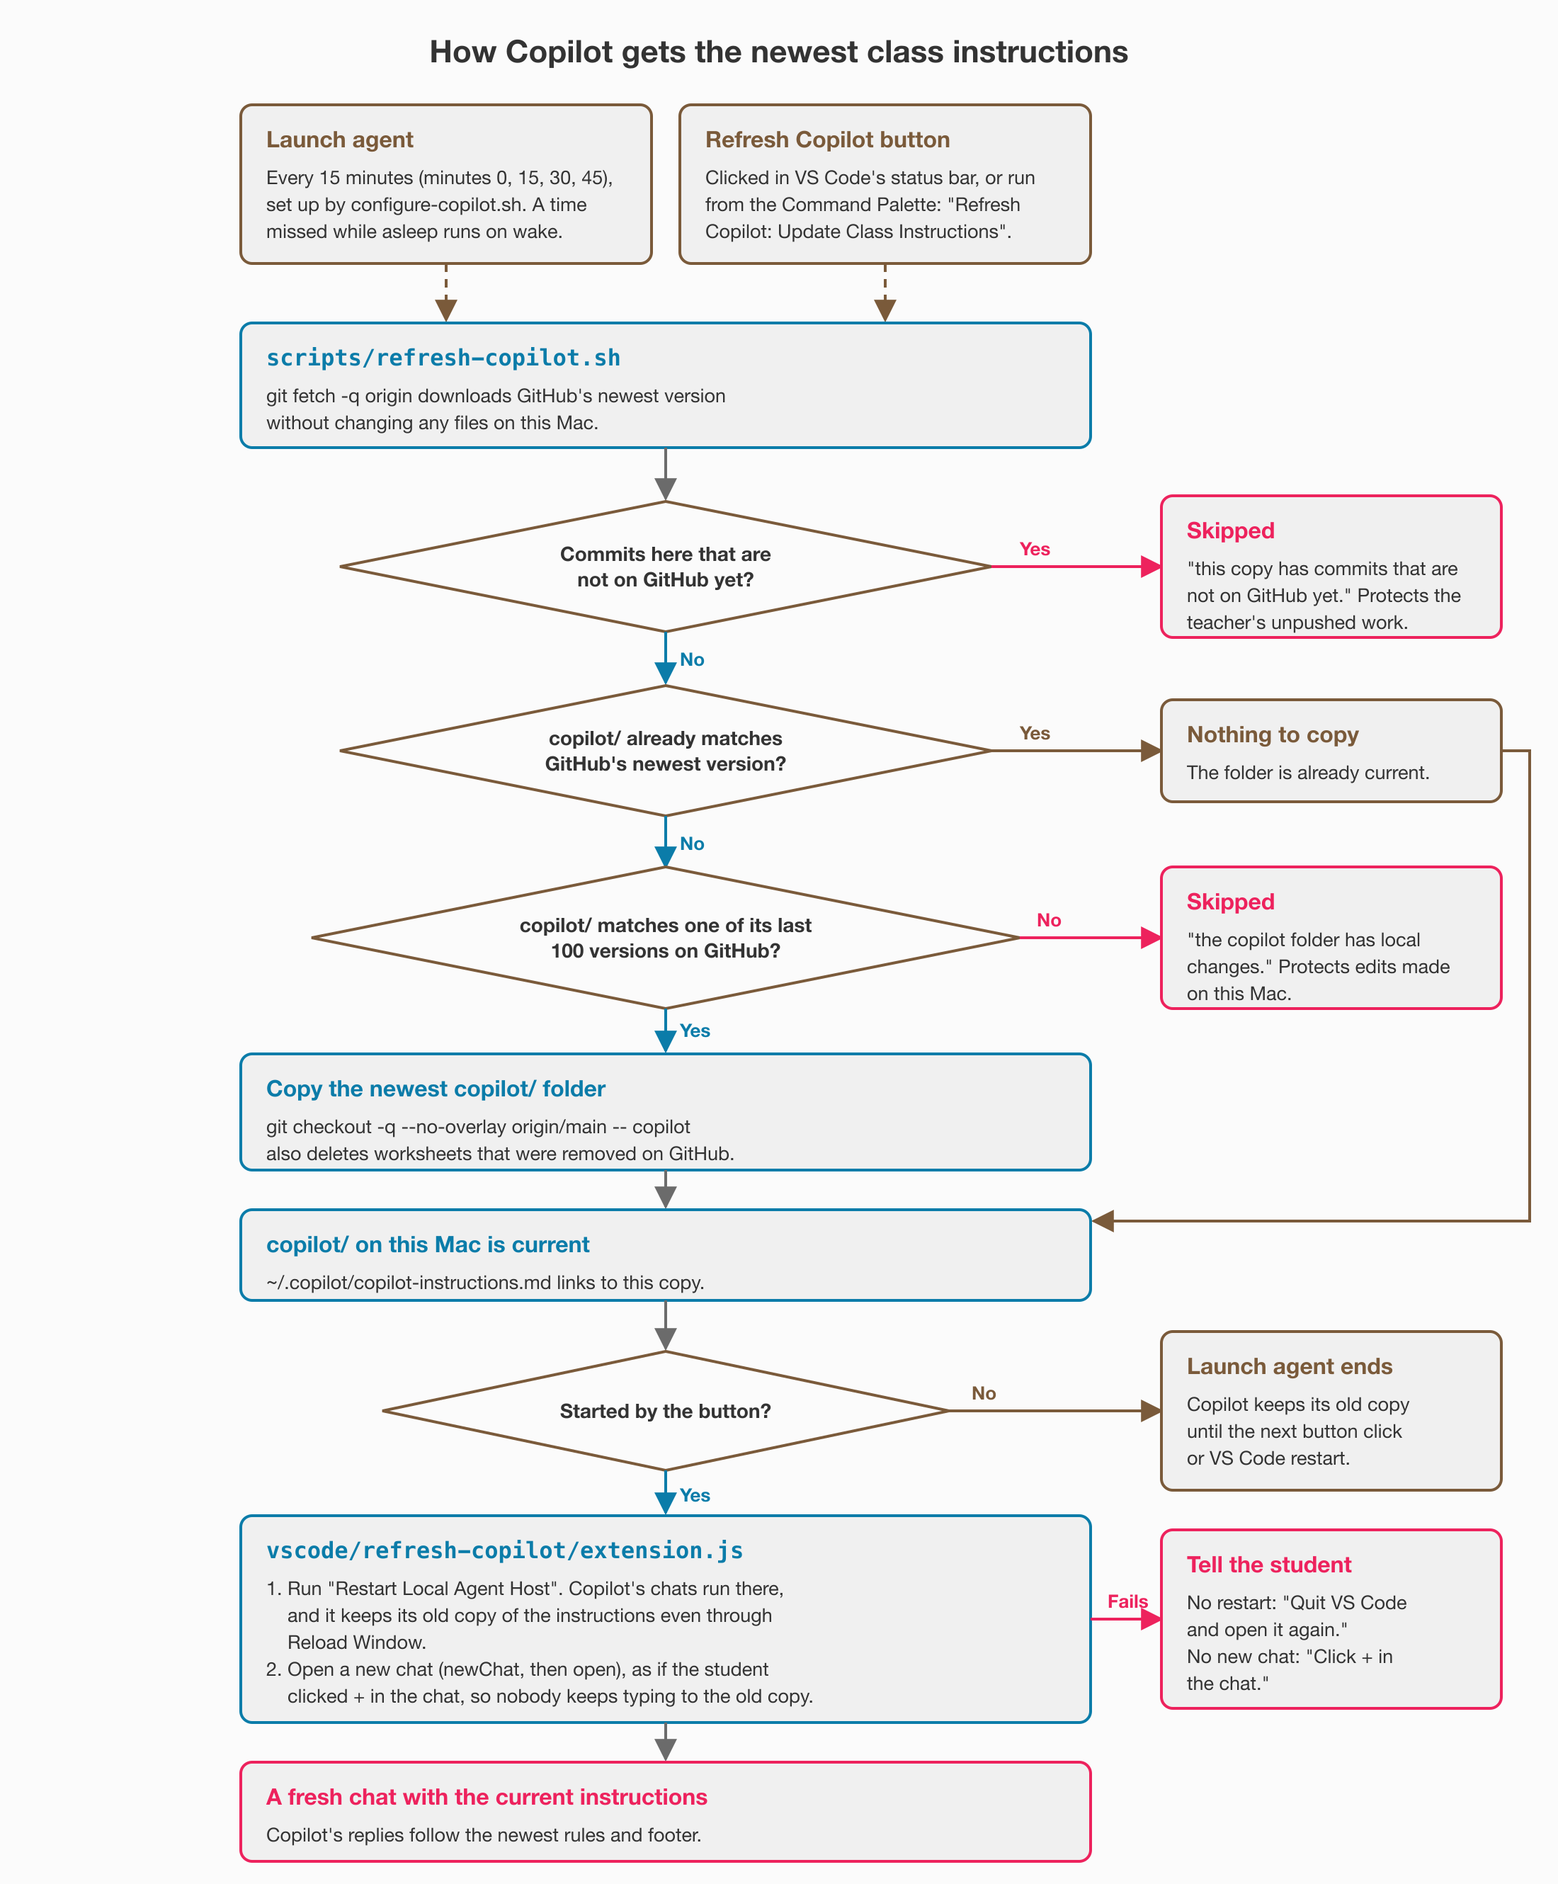
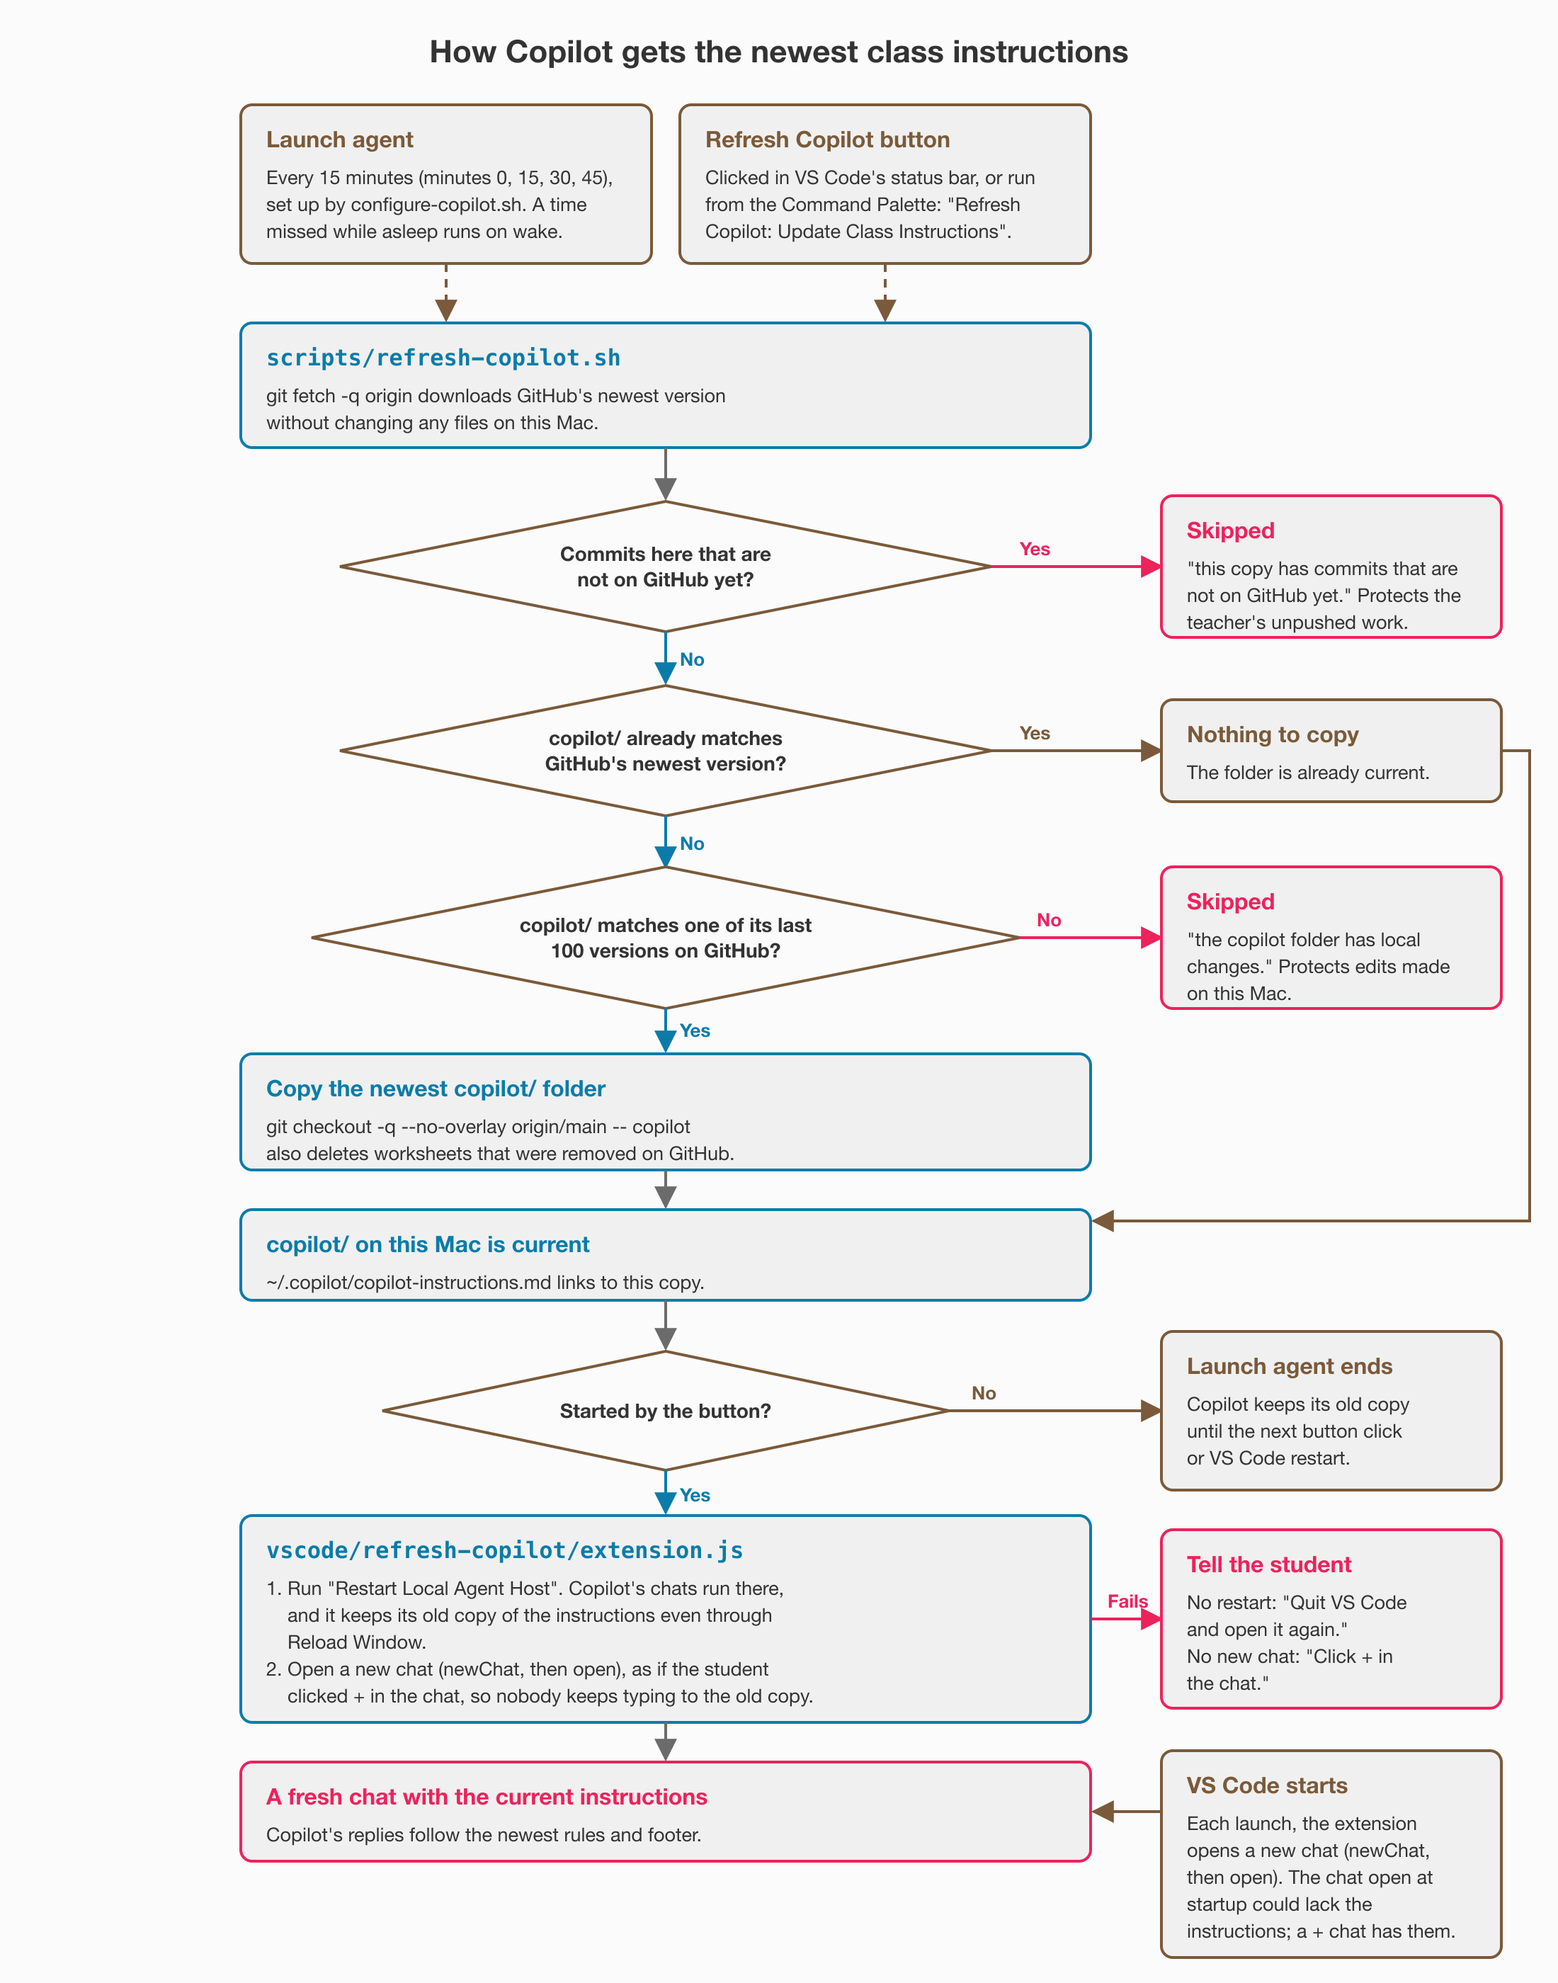
updated copilot update docs diagram

diff --git a/CLAUDE.md b/CLAUDE.md
@@ -25,7 +25,7 @@ can replace its link with a regular file; check with `ls -la` (look for `->`).
 | `vscode/p5-live-sketch/` | installed as `local.p5-live-sketch` (packaged `.vsix`, not linked) | Local extension "p5.js Live Sketch" (`extension.js`, `package.json`): activates on `workspaceContains:sketch.js`, first runs `workbench.action.browser.closeAll` (only at startup) so integrated browser tabs VS Code restored before Live Server is up do not show an error page, then opens `sketch.js` in column one, runs `extension.liveServer.goOnline`, polls `http://127.0.0.1:PORT/sketch.js` (rereading `liveServer.settings.port`) until it matches the file on disk, then runs `workbench.action.browser.open` with `url`, `reuseUrlFilter` and `openToSide`. Command `p5LiveSketch.open`; setting `p5LiveSketch.openOnStart` |
 | `vscode/p5js-editor-light/` | installed as `local.p5js-editor-light` (packaged `.vsix`, not linked) | Theme extension: `package.json` (publisher `local`, `uiTheme` `vs`, version 0.0.2), `themes/p5js-editor-light-color-theme.json`, and `extension.js`, which runs on `onStartupFinished` and, once per Mac (flag `p5jsEditorLight.themeApplied` in `globalState`), removes and rewrites `workbench.colorTheme` = `p5.js Editor Light` at the Global target. Reason: on a test Mac on 2026-10-19 the setting was correct but VS Code kept its default theme (it first started before the theme was installed) until the theme was picked by hand, which moved the same line in `settings.json`. |
 
-The repo has five folders: `scripts/` (the four setup scripts plus `configure-copilot.sh`, `refresh-copilot.sh` and `update-worksheets.sh`), `zsh/` (`.zshrc` and the Powerlevel10k config), `vscode/` (`settings.json`, `extensions.txt`, and the theme extension), `copilot/` (Copilot's class instructions, `worksheets.txt`, and `worksheets/`), and `docs/` (four flowchart images: `setup-flow.png`, the order the setup scripts run in; `file-map.png`, where each repo file goes on a student's Mac and how `copilot/` changes reach students; and `worksheet-sync.png`, the hourly worksheet workflow from a Google Doc edit or a `worksheets.txt` change through `update-worksheets.sh`, the bot commit, and `refresh-copilot.sh` on students' Macs; and `copilot-refresh.png`, how the launch agent and the Refresh Copilot button run `refresh-copilot.sh`'s three checks and how the button then restarts the local agent host and opens a new chat; drawn as SVG by a Python script and rendered with `rsvg-convert -w 2200`, neither kept in the repo). The hidden `.github/workflows/` folder holds `update-worksheets.yml`. `configure.sh` finds the repo root as the parent of `scripts/`. The scripts set up a Mac. Their comments teach bash to students, so keep
+The repo has five folders: `scripts/` (the four setup scripts plus `configure-copilot.sh`, `refresh-copilot.sh` and `update-worksheets.sh`), `zsh/` (`.zshrc` and the Powerlevel10k config), `vscode/` (`settings.json`, `extensions.txt`, and the theme extension), `copilot/` (Copilot's class instructions, `worksheets.txt`, and `worksheets/`), and `docs/` (four flowchart images: `setup-flow.png`, the order the setup scripts run in; `file-map.png`, where each repo file goes on a student's Mac and how `copilot/` changes reach students; and `worksheet-sync.png`, the hourly worksheet workflow from a Google Doc edit or a `worksheets.txt` change through `update-worksheets.sh`, the bot commit, and `refresh-copilot.sh` on students' Macs; and `copilot-refresh.png`, how the launch agent and the Refresh Copilot button run `refresh-copilot.sh`'s three checks how the button then restarts the local agent host and opens a new chat, and how each VS Code launch opens a new chat; drawn as SVG by a Python script and rendered with `rsvg-convert -w 2200`, neither kept in the repo). The hidden `.github/workflows/` folder holds `update-worksheets.yml`. `configure.sh` finds the repo root as the parent of `scripts/`. The scripts set up a Mac. Their comments teach bash to students, so keep
 them accurate and in that teaching style when editing. They must run on macOS's
 built-in bash 3.2: no associative arrays, `mapfile` or `${variable,,}`. Every
 step skips work that is already done, so each script is safe to rerun.
@@ -35,7 +35,7 @@ step skips work that is already done, so each script is safe to rerun.
 - `install.sh` installs, in order: Homebrew (`sudo -v` caches the administrator password, then the official installer runs with `NONINTERACTIVE=1`, which makes it use `sudo -n`); the `brew shellenv` line appended to `~/.zprofile`; Visual Studio Code with `brew install --cask` (skipped when the app is already in `/Applications`, since `brew` refuses to overwrite an app it did not install); the Homebrew formulae `zsh-autosuggestions` and `zsh-syntax-highlighting`; oh-my-zsh (`KEEP_ZSHRC=yes`, `--unattended`); `git clone --depth=1` of Powerlevel10k into `~/.oh-my-zsh/custom/themes/powerlevel10k`; and the four MesloLGS NF `.ttf` files from `romkatv/powerlevel10k-media` into `~/Library/Fonts`. Last, it installs the Homebrew cask `font-inconsolata` (Inconsolata, SIL Open Font License) for the editor.
 - `configure.sh` recreates the three settings symlinks (`.zshrc`, `.p10k.zsh`, VS Code `settings.json`), moving anything in the way into `~/DeveloperTools-backups/<date_time>/` and creating missing parent folders. It then installs each extension in `vscode/extensions.txt` (one `publisher.name` per line; `#` comments and blank lines skipped) with `code --install-extension`, using `code` from the command path or from inside `/Applications/Visual Studio Code.app`. The list holds `samplavigne.p5-vscode`, `ritwickdey.LiveServer` and `usernamehw.errorlens`; p5.vscode's extension pack already includes Live Server, and Live Server is not built into Visual Studio Code. GitHub Copilot is built in (`GitHub.copilot-chat`), so it is not in the list. It then packages each folder in `local_extension_folders` (`vscode/p5js-editor-light`, `vscode/p5-live-sketch`, `vscode/refresh-copilot`) into a `.vsix` with `zip` (an `extension/` folder plus `extension.vsixmanifest` and `[Content_Types].xml`, with publisher, name, version, display name and engine read from `package.json` by `plutil -extract FIELD raw`) and installs it with `code --install-extension FILE --force`, after moving any old symlink at `~/.vscode/extensions/FOLDER` into the backup folder. On 2026-10-19 a test Mac showed that VS Code did not load folders symlinked into `~/.vscode/extensions` (theme and Live Sketch both silently missing), though Jeffrey's own machine had registered them; `.vsix` installs registered both in an isolated `--extensions-dir` test. Installed copies are not live: after editing either folder, rerun `configure.sh`.
   On 2026-10-21 on Jeffrey's Mac, the first run after the switch from symlinks moved both old extension symlinks to the backup folder, installed the theme, then failed on Live Sketch with `Please restart VS Code before reinstalling p5.js Live Sketch.` ; `set -e` stopped the script there. VS Code was not the cause: the error persisted with VS Code closed. VS Code's code (`cliProcessMain.js`) shows that installing a `.vsix` whose name and version match a registered extension first deletes the registered folder, and reports any delete failure with that message; Live Sketch 0.0.1 was still registered at the moved symlink's path. `code --uninstall-extension local.p5-live-sketch` cleared it and the install succeeded. `configure.sh` now runs that uninstall right after moving an old symlink (that branch is untested).
-- `vscode/refresh-copilot/` (installed as `local.refresh-copilot`, added 2026-10-21 at Jeffrey's request) adds a "$(sync) Refresh Copilot" status bar button (left side, activates on `onStartupFinished`) and the command `refreshCopilot.refresh` ("Refresh Copilot: Update Class Instructions"). It finds the repo by resolving the `~/.copilot/copilot-instructions.md` link, runs `scripts/refresh-copilot.sh` with `/bin/bash`, and shows an information, warning ("Skipped:") or error message. Since version 0.0.2 (2026-10-25), when the folder was updated or was already current, it runs "Restart Local Agent Host" (`workbench.action.chat.restartLocalAgentHost`), then, since version 0.0.3 (Jeffrey's request, so students never keep typing into a chat with the old instructions), opens a fresh chat with `workbench.action.chat.newChat` followed by `workbench.action.chat.open` (the same pair VS Code's own code uses), falling back to "Click + in the chat to start a new chat" if either fails. Since version 0.0.4 (2026-10-25) it also runs that new-chat pair, silently, each time VS Code finishes starting (`onStartupFinished`), because on the 2019 MacBook Pro after a bootstrap rerun the chat already open at startup had no class instructions while a chat started with + did (VS Code's `chat.restoreLastPanelSession` defaults to `false`, so that startup chat was not a restored one). Untested in a real VS Code window; if that command does not exist it says to quit and reopen VS Code. Reason: on the 2019 MacBook Pro the instructions file on disk was current but Copilot kept answering from the previous version through "Reload Window" (which 0.0.1 offered); Jeffrey ran "Restart Local Agent Host" by hand and that cleared it. It restarts even when the script reports nothing new, because the launch agent may already have updated the folder in the background. All five result paths passed against a stubbed `vscode` module and throwaway repos; the button itself has not been seen in VS Code yet. The `--force` reinstall of all three local extensions succeeded with VS Code open.
+- `vscode/refresh-copilot/` (installed as `local.refresh-copilot`, added 2026-10-21 at Jeffrey's request) adds a "$(sync) Refresh Copilot" status bar button (left side, activates on `onStartupFinished`) and the command `refreshCopilot.refresh` ("Refresh Copilot: Update Class Instructions"). It finds the repo by resolving the `~/.copilot/copilot-instructions.md` link, runs `scripts/refresh-copilot.sh` with `/bin/bash`, and shows an information, warning ("Skipped:") or error message. Since version 0.0.2 (2026-10-25), when the folder was updated or was already current, it runs "Restart Local Agent Host" (`workbench.action.chat.restartLocalAgentHost`), then, since version 0.0.3 (Jeffrey's request, so students never keep typing into a chat with the old instructions), opens a fresh chat with `workbench.action.chat.newChat` followed by `workbench.action.chat.open` (the same pair VS Code's own code uses), falling back to "Click + in the chat to start a new chat" if either fails. Since version 0.0.4 (2026-10-25) it also runs that new-chat pair, silently, each time VS Code finishes starting (`onStartupFinished`), because on the 2019 MacBook Pro after a bootstrap rerun the chat already open at startup had no class instructions while a chat started with + did (VS Code's `chat.restoreLastPanelSession` defaults to `false`, so that startup chat was not a restored one). Jeffrey confirmed on 2026-10-25 that this works as desired on the 2019 MacBook Pro; if that command does not exist it says to quit and reopen VS Code. Reason: on the 2019 MacBook Pro the instructions file on disk was current but Copilot kept answering from the previous version through "Reload Window" (which 0.0.1 offered); Jeffrey ran "Restart Local Agent Host" by hand and that cleared it. It restarts even when the script reports nothing new, because the launch agent may already have updated the folder in the background. All five result paths passed against a stubbed `vscode` module and throwaway repos; the button itself has not been seen in VS Code yet. The `--force` reinstall of all three local extensions succeeded with VS Code open.
 - `configure-copilot.sh` is kept apart from `configure.sh` (Jeffrey's request, 2026-10-21) because the Copilot instructions change often and the extensions rarely. It links `~/.copilot/copilot-instructions.md` to `copilot/copilot-instructions.md` (only that file, because `~/.copilot` also holds Copilot's own data), then writes the launch agent `~/Library/LaunchAgents/org.lwhs.developertools.refresh-copilot.plist` (via a here document, with the repo path filled in) and loads it with `launchctl bootout` then `launchctl bootstrap gui/$(id -u)`, skipping when the file is unchanged and `launchctl print` shows it loaded. The agent runs `scripts/refresh-copilot.sh` at minutes 0, 15, 30 and 45 (`StartCalendarInterval`, which runs a missed time on wake, per `man launchd.plist`) and logs to `~/Library/Logs/DeveloperTools-refresh-copilot.log`. Loaded on Jeffrey's Mac on 2026-10-21; a `launchctl kickstart` run exited 0 and fetched from GitHub. An actual folder update through `launchd` is untested.
 - `refresh-copilot.sh` makes only `copilot/` match GitHub: `git fetch -q origin`, then `git checkout -q --no-overlay origin/main -- copilot` (`--no-overlay` deletes files removed upstream). A full `git pull --ff-only` would stop whenever a student's `vscode/settings.json` had local edits from the Settings screen. It fetches first, then skips when `HEAD` has commits not on `origin/main`, or when `copilot/` matches none of the last 100 versions of `copilot/` on `origin/main` (`git rev-list -n 100 origin/main -- copilot`), so Jeffrey's own unpushed, uncommitted or staged work is never overwritten. Until 2026-10-25 the second check compared only `HEAD` and the pre-fetch `origin/main`, which can get stuck for good ("Skipped: the copilot folder has local changes." on every run), the likely but unconfirmed cause of a failed button refresh on a 2019 MacBook Pro on 2026-10-25: after a refresh, the setup command's `git pull --ff-only` fetched a newer version but refused to merge over the staged refreshed files, so they matched neither. Reproduced and fixed in throwaway repos; eight student and teacher scenarios passed. Measured 2026-10-21: one fetch from GitHub took about 0.27 s of wall time and 0.05 s of processor time. The refreshed files show as staged changes in `git status`; `bootstrap.sh`'s later `git pull --ff-only` still succeeds (tested in throwaway repos).
 - `update-worksheets.sh` is never run by students. Since 2026-10-21 the GitHub Actions workflow `.github/workflows/update-worksheets.yml` runs it at minute 17 of every hour (and on demand from the Actions tab) on `macos-latest`, because the script uses macOS's `sed -i ''`; if `git status --porcelain -- copilot` shows changes, it commits them to `main` as `github-actions[bot]` with the message "updated worksheets from google docs" and pushes with the run's token (`permissions: contents: write`). Bot commits skip the by-hand review, and they land on GitHub's `main`, so pull before pushing local commits. GitHub disables scheduled workflows in a public repository after 60 days with no repository activity. Jeffrey can still run the script by hand. Since 2026-10-21 (Jeffrey's request), `copilot/worksheets.txt` holds one Google Doc share address per line, in class order, so a person only pastes an address; anything after the first space is the title the script writes back. The script downloads each Doc from `https://docs.google.com/document/d/ID/export?format=md` into a `mktemp -d` folder (so a failed download leaves the old worksheets), reads the Doc's title from the `filename*=UTF-8''...` part of the `content-disposition` header (`curl -D`), names the file `NN-title-slug.md` by list position, deletes the embedded base64 pictures with `sed` (they made the nine worksheets 5.4 MB; without them, 58 KB), then replaces `copilot/worksheets/` (dropping worksheets removed from the list). It rewrites `worksheets.txt` as `ADDRESS  Title` lines (comments kept) and replaces the numbered list in `copilot-instructions.md` between `<!-- worksheet list: written by scripts/update-worksheets.sh -->` and `<!-- end of worksheet list -->`, exiting 1 if either marker is missing. The bot therefore commits to `copilot-instructions.md` too, so pull before editing it. Titles come from the Docs themselves (for example "Variables and Conditional Statements Fall 2026"). Tested 2026-10-21: a second run changed nothing, and in a scratch copy a removed line and a pasted bare address were renumbered and listed correctly. Review with `git diff`, then commit.
